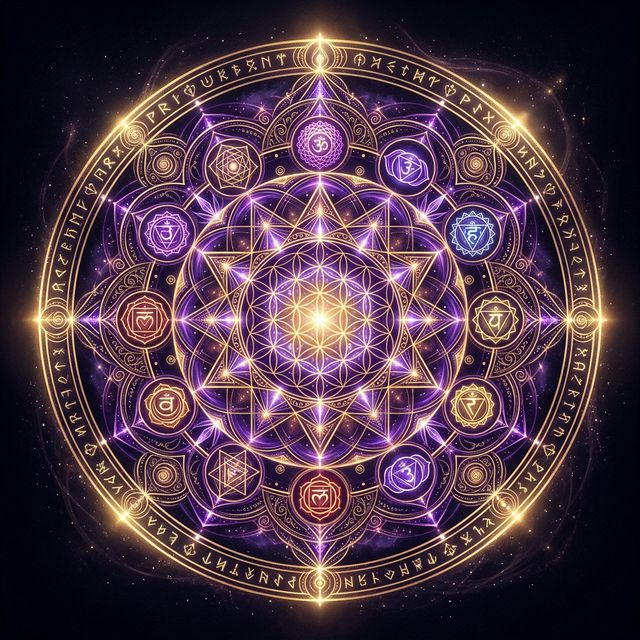
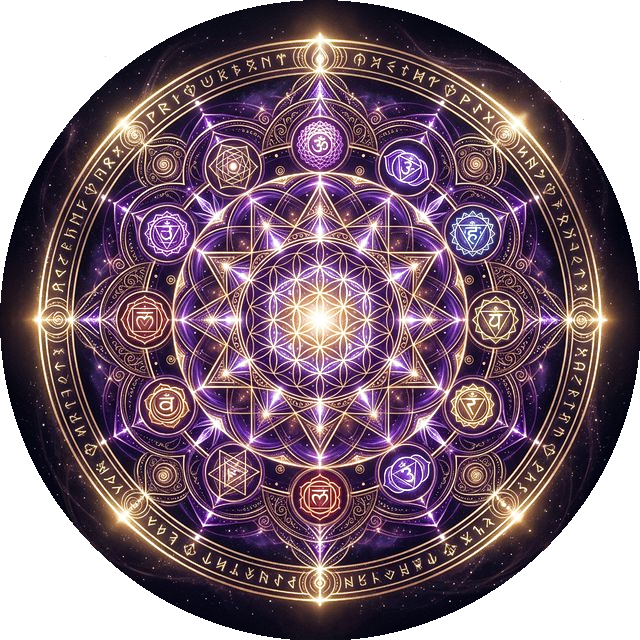
Revert hacky CSS, completely remove white background from the mandala.png directly using a python algorithm instead for perfect preservation of native colors

diff --git a/style.css b/style.css
@@ -505,13 +505,8 @@ h1, h2, h3, h4 {
   border-radius: 50%;
   animation: spin 60s linear infinite;
   
-  /* The Magic Trick to remove the pure white background:
-     1. Invert the image (white background becomes pure black).
-     2. mix-blend-mode: screen drops pure black completely!
-     3. hue-rotate(180deg) brings the inverted colors back to roughly their original purple/gold state.
-  */
-  filter: invert(1) hue-rotate(180deg) contrast(1.5) saturate(1.5);
-  mix-blend-mode: screen;
+  /* The white background has been natively stripped from the image file via Python transparency script. */
+  filter: saturate(1.2) brightness(1.2) drop-shadow(0 0 40px rgba(123, 47, 190, 0.4));
 }
 
 .float-card-inner h3 {
